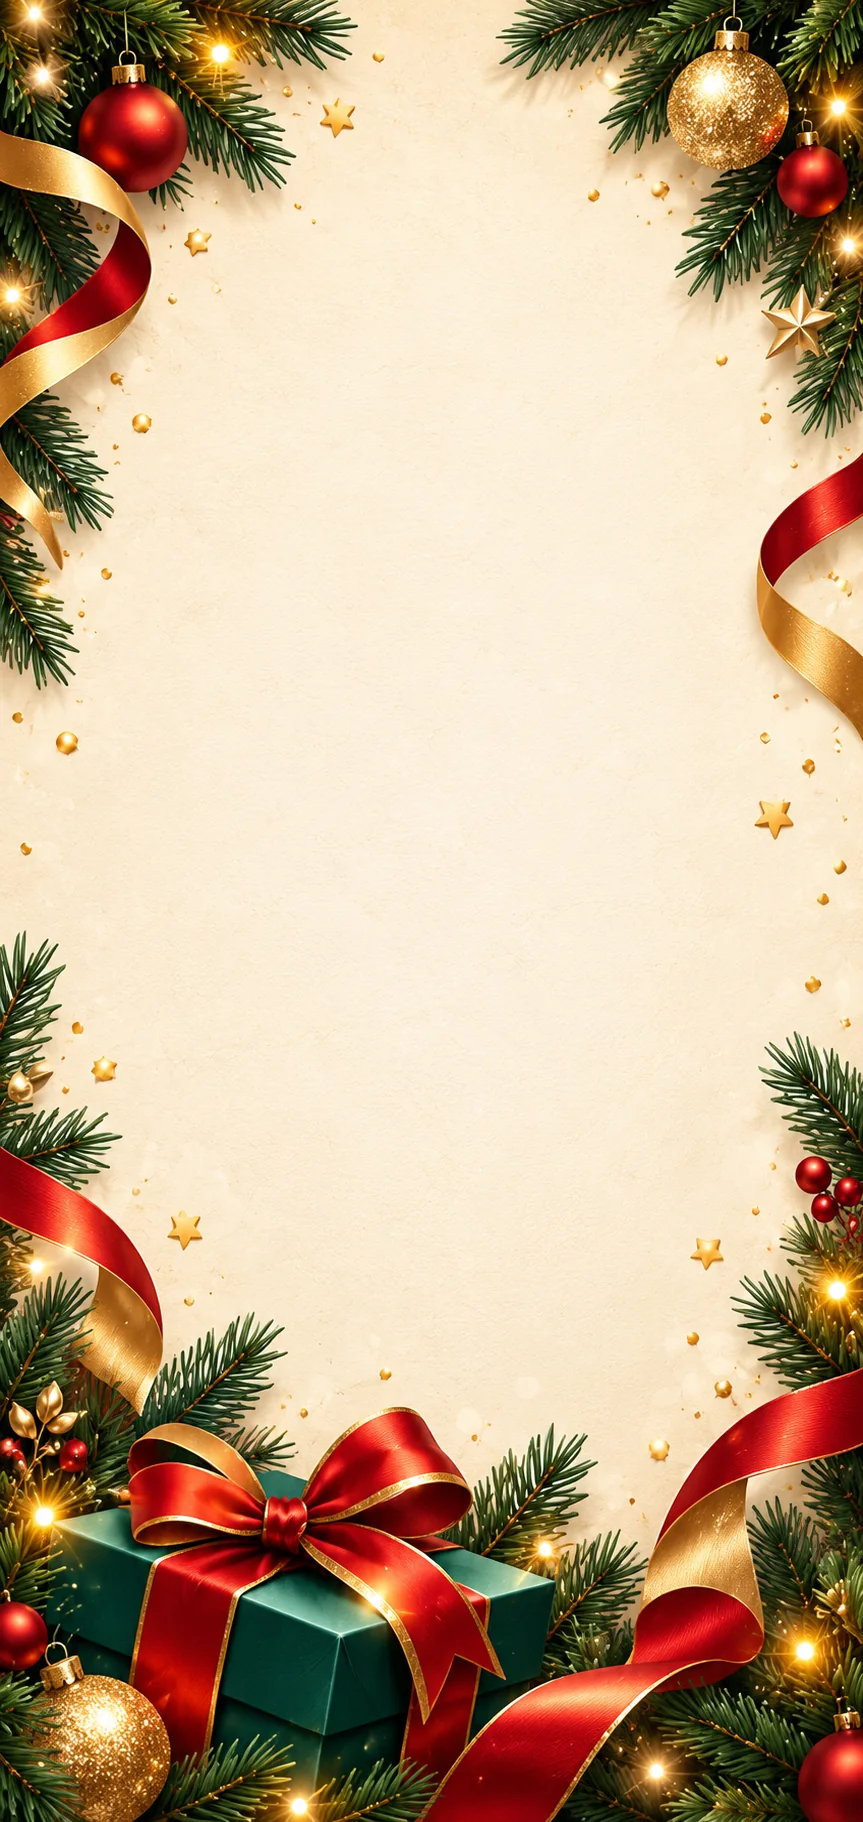
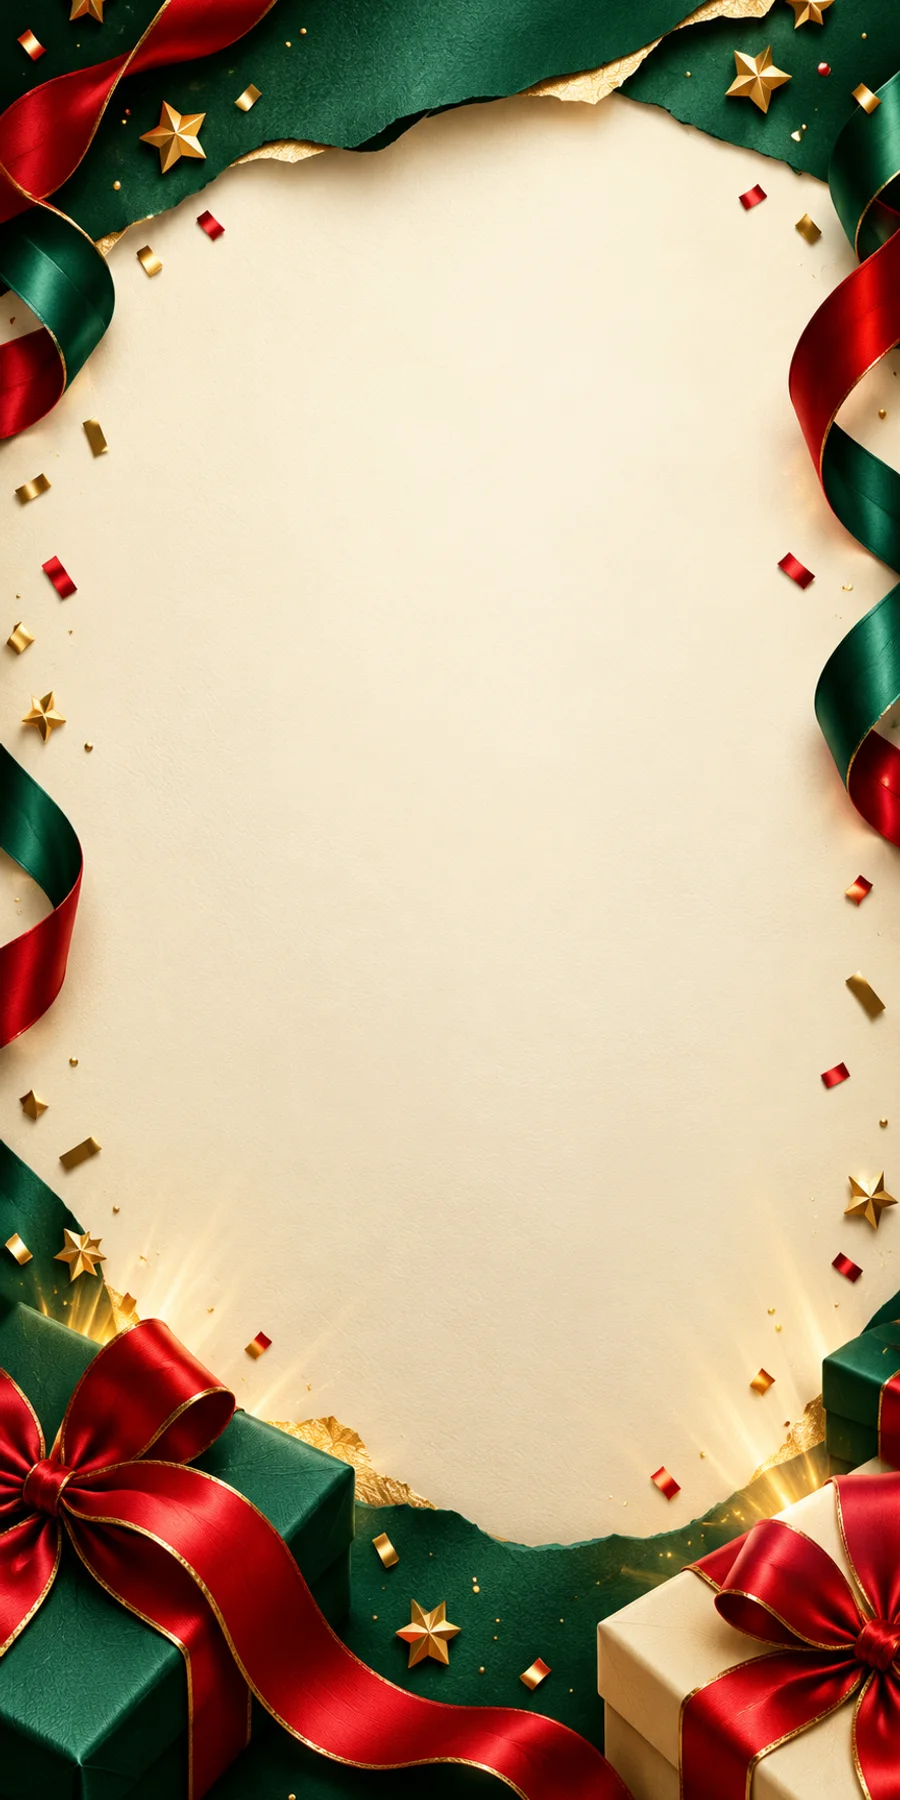
fix(scratch): match neutral festive design references

diff --git a/apps/web-app/e2e/christmas-scratch.spec.ts b/apps/web-app/e2e/christmas-scratch.spec.ts
@@ -1,5 +1,11 @@
 import { expect, test } from "@playwright/test";
 import { CHRISTMAS_SCRATCH_TEMPLATES, christmasScratchTemplate } from "../src/lib/christmas-scratch-templates";
+const NON_SEASONAL_TEMPLATES = new Set([
+  "scratch-christmas-evergreen",
+  "scratch-christmas-champagne",
+  "scratch-christmas-retro",
+  "scratch-christmas-noir-or",
+]);
 import { assertNoPageOverflow, captureVisualAt1280, rejectAnalyticsForVisualTests } from "./helpers/visual-1280";
 import { selectWizardStep } from "./helpers/wizard-step";
 test.use({ hasTouch: true });
@@ -68,14 +74,14 @@ for (const item of CHRISTMAS_SCRATCH_TEMPLATES) {
     await page.mouse.up();
     await expect(page.getByTestId("scratch-starts")).toHaveText("1");
     await expect(page.getByTestId("scratch-reveals")).toHaveText("1");
-    await expect(page.getByText("UN CADEAU DE NOËL").last()).toBeVisible();
+    await expect(page.getByText("UNE SURPRISE").last()).toBeVisible();
   });
 }
 test("fonds manuels, titre et logo image restent personnalisables", async ({ page }) => {
   await page.goto("/dev/christmas-scratch");
   await expect(page.locator('[data-fixture-ready="true"]')).toHaveCount(1);
-  await page.getByLabel("Titre de test").fill("Votre surprise\nde Noël");
-  await expect(page.getByRole("heading")).toHaveText("Votre surprise de Noël");
+  await page.getByLabel("Titre de test").fill("Votre surprise\nà découvrir");
+  await expect(page.getByRole("heading")).toHaveText("Votre surprise à découvrir");
   await page.getByLabel("Logo de test").selectOption("image");
   const logo = page.getByRole("img", { name: "Logo", exact: true });
   await expect.poll(() => logo.evaluate((image: HTMLImageElement) => image.naturalWidth)).toBeGreaterThan(0);
@@ -110,7 +116,7 @@ test("grattage tactile réel et aperçu non interactif", async ({ page }) => {
   await expect(page.getByTestId("scratch-foil-first-paint")).toHaveCount(1);
 });
 
-test("@visual-1280 tickets Noël dans l'éditeur classique, tous secteurs", async ({ page }, info) => {
+test("@visual-1280 tickets festifs dans l'éditeur classique, tous secteurs", async ({ page }, info) => {
   await page.setViewportSize({ width: 1280, height: 720 });
   await page.goto("/dev/template-rendering-proof?mode=editor-prize-budget&template=scratch-nude-classic&business=retail");
   for (const item of CHRISTMAS_SCRATCH_TEMPLATES) {
@@ -118,11 +124,12 @@ test("@visual-1280 tickets Noël dans l'éditeur classique, tous secteurs", asyn
     const card = page.getByRole("button", { name: new RegExp(theme.name) });
     await card.scrollIntoViewIfNeeded(); await card.click();
     await expect(card).toHaveAttribute("aria-pressed", "true");
+    if (NON_SEASONAL_TEMPLATES.has(theme.id)) await expect(card).not.toContainText(/noël/i);
     await expect(page.locator(`canvas[data-foil-texture="${theme.id}"]`)).toHaveAttribute("data-foil-loaded", "true");
   }
-  await captureVisualAt1280(page, info, "noel-tickets-editeur-classique");
+  await captureVisualAt1280(page, info, "tickets-festifs-editeur-classique");
 });
-test("@visual-1280 tickets Noël dans le wizard et aperçu, 1280×720 / 1280×600", async ({ page }, info) => {
+test("@visual-1280 tickets festifs dans le wizard et aperçu, 1280×720 / 1280×600", async ({ page }, info) => {
   const imageWarnings: string[] = [];
   page.on("console", message => {
     if (/beauty-foil-|wheel-templates\/christmas-/.test(message.text()) && /invalid.*position|height value of 0/i.test(message.text())) imageWarnings.push(message.text());
@@ -136,6 +143,7 @@ test("@visual-1280 tickets Noël dans le wizard et aperçu, 1280×720 / 1280×60
       const card = page.getByRole("button", { name: new RegExp(theme.name) });
       await card.scrollIntoViewIfNeeded(); await card.click();
       await expect(card).toHaveAttribute("aria-pressed", "true");
+      if (NON_SEASONAL_TEMPLATES.has(theme.id)) await expect(card).not.toContainText(/noël/i);
       await captureVisualAt1280(page, info, theme.id, height);
       await page.getByRole("button", { name: "Voir l’aperçu", exact: true }).click();
       const frame = page.getByRole("dialog", { name: "Aperçu du jeu" }).frameLocator("iframe");

diff --git a/apps/web-app/src/lib/christmas-scratch-templates.ts b/apps/web-app/src/lib/christmas-scratch-templates.ts
@@ -29,14 +29,16 @@ type IllustratedTemplate = {
   scratch: ScratchFinish;
 };
 
+// Keep the historical IDs for campaigns already using the original PR #726.
+// The four illustrated styles below are neutral festive designs, not seasonal templates.
 export const CHRISTMAS_SCRATCH_TEMPLATES = [
   { id: "scratch-christmas-rose", wheelId: "christmas-rose", scratch: { base: "#c6a0aa", highlight: "#f4e3e5", edge: "#fff5ef", texture: "/images/scratch-templates/beauty-foil-lilas.webp", textureOpacity: .28 } },
   { id: "scratch-christmas-natural", wheelId: "christmas-natural", scratch: { base: "#b69a63", highlight: "#eee1c4", edge: "#fff9eb", texture: "/images/scratch-templates/beauty-foil-botanical.webp", textureOpacity: .32 } },
   { id: "scratch-christmas-traditional", wheelId: "christmas-traditional", scratch: { base: "#a98444", highlight: "#f0dca0", edge: "#fff0c4", texture: "/images/scratch-templates/beauty-foil-noir-or.webp", textureOpacity: .28 } },
   {
     id: "scratch-christmas-evergreen",
-    name: "Noël sapin & cadeaux",
-    description: "Sapin profond, rubans rouges et cadeaux lumineux.",
+    name: "Vert bouteille & rubans",
+    description: "Papier vert profond, rubans rouges et paquets cadeaux.",
     background: "/images/scratch-templates/christmas-evergreen-background.webp",
     backgroundColor: "#f5eddd",
     text: "#173c34",
@@ -47,8 +49,8 @@ export const CHRISTMAS_SCRATCH_TEMPLATES = [
   },
   {
     id: "scratch-christmas-champagne",
-    name: "Noël champagne",
-    description: "Ivoire lumineux, rubans et détails champagne.",
+    name: "Ivoire & champagne",
+    description: "Rubans dorés satinés et paquet cadeau sur fond ivoire.",
     background: "/images/scratch-templates/christmas-champagne-background.webp",
     backgroundColor: "#fbf4e8",
     text: "#263d37",
@@ -59,8 +61,8 @@ export const CHRISTMAS_SCRATCH_TEMPLATES = [
   },
   {
     id: "scratch-christmas-retro",
-    name: "Noël rétro",
-    description: "Rayons colorés, rouge festif et esprit affiche vintage.",
+    name: "Rayons rétro",
+    description: "Rayons corail, turquoise et safran façon affiche vintage.",
     background: "/images/scratch-templates/christmas-retro-background.webp",
     backgroundColor: "#f5e9ce",
     text: "#ad2925",
@@ -71,8 +73,8 @@ export const CHRISTMAS_SCRATCH_TEMPLATES = [
   },
   {
     id: "scratch-christmas-noir-or",
-    name: "Noël noir & or",
-    description: "Fond noir profond, rubans de satin et éclats dorés.",
+    name: "Satin noir & or",
+    description: "Rubans métallisés et éclats dorés sur fond noir profond.",
     background: "/images/scratch-templates/christmas-noir-or-background.webp",
     backgroundColor: "#100f0d",
     text: "#f8f0df",

diff --git a/apps/web-app/e2e/fixtures/christmas-scratch.tsx b/apps/web-app/e2e/fixtures/christmas-scratch.tsx
@@ -24,7 +24,7 @@ export function ChristmasScratchFixture({ templateId, mode, initialBackground = 
       background: { mode: background === "image" ? "image" as const : "color" as const, color: background === "color" ? "#e0f2fe" : theme.backgroundColor, imageUrl: background === "image" ? "/backgrounds/aurora-retail.svg" : undefined },
       heading: { ...halloweenFixture.presentation.heading, fontFamily: theme.font, fontSizePx: DEFAULT_SCRATCH_HEADING_FONT_SIZE_PX, textColor: theme.text },
       logo: { ...halloweenFixture.presentation.logo, textColor: theme.logo, sizePercent: 75, marginBottomPx: 36 },
-      layout: { ...halloweenFixture.presentation.layout, templateId: selected, scratchSubtitle: "De belles surprises vous attendent pour Noël", blockSpacingPx: 32 },
+      layout: { ...halloweenFixture.presentation.layout, templateId: selected, scratchSubtitle: "Une surprise vous attend !", blockSpacingPx: 32 },
     } };
   const merchant = { id: "fixture-merchant", companyName: "Maison Douceur", logoText: "Maison Douceur" } as Merchant;
   const preview = buildCampaignLivePreviewModel(form, merchant);
@@ -33,7 +33,7 @@ export function ChristmasScratchFixture({ templateId, mode, initialBackground = 
     return <main data-fixture-ready={ready}><CampaignExperience campaignId={campaign.id} initialCampaign={campaign} isPreview={mode === "preview"} previewToken={mode === "preview" ? "fixture-only" : undefined} /></main>;
   }
   if (mode === "interaction") return <main data-fixture-ready={ready} className="mx-auto max-w-[390px] px-4" style={{ backgroundColor: theme.backgroundColor, backgroundImage: `url("${theme.background}")`, backgroundSize: "cover" }}>
-    <ImmersiveScratchTicket template={theme.id} accent={form.accent} resultLabel="UN CADEAU DE NOËL" enabled
+    <ImmersiveScratchTicket template={theme.id} accent={form.accent} resultLabel="UNE SURPRISE" enabled
       onReveal={() => setReveals(count => count + 1)} onScratchStart={() => setStarts(count => count + 1)}
       headline={title} secondaryText={form.presentation.layout.scratchSubtitle} logoMode={logo} logoText="Maison Douceur"
       headingFontSizePx={46} headingFontClass="font-bodoni" headingTextColor={theme.text} logoTextColor={theme.logo} />

diff --git a/apps/web-app/src/lib/background-library.ts b/apps/web-app/src/lib/background-library.ts
@@ -1,7 +1,47 @@
-import { BackgroundLibraryAsset } from "@/lib/types";
+import type { BackgroundLibraryAsset } from "@/lib/types";
 import { CHRISTMAS_WHEEL_THEMES, christmasWheelArtwork } from "@/lib/christmas-wheel-themes";
 
 export const builtInBackgroundAssets: BackgroundLibraryAsset[] = [
+  {
+    id: "builtin-scratch-gift-wrap",
+    label: "Vert bouteille & rubans",
+    category: "Fête",
+    imageUrl: "/images/scratch-templates/christmas-evergreen-background.webp",
+    thumbnailUrl: "/images/scratch-templates/christmas-evergreen-background.webp",
+    source: "built-in",
+    width: 900,
+    height: 1800,
+  },
+  {
+    id: "builtin-scratch-champagne-ribbons",
+    label: "Ivoire & champagne",
+    category: "Fête",
+    imageUrl: "/images/scratch-templates/christmas-champagne-background.webp",
+    thumbnailUrl: "/images/scratch-templates/christmas-champagne-background.webp",
+    source: "built-in",
+    width: 900,
+    height: 1800,
+  },
+  {
+    id: "builtin-scratch-retro-rays",
+    label: "Rayons rétro",
+    category: "Fête",
+    imageUrl: "/images/scratch-templates/christmas-retro-background.webp",
+    thumbnailUrl: "/images/scratch-templates/christmas-retro-background.webp",
+    source: "built-in",
+    width: 900,
+    height: 1800,
+  },
+  {
+    id: "builtin-scratch-black-gold-ribbons",
+    label: "Satin noir & or",
+    category: "Fête",
+    imageUrl: "/images/scratch-templates/christmas-noir-or-background.webp",
+    thumbnailUrl: "/images/scratch-templates/christmas-noir-or-background.webp",
+    source: "built-in",
+    width: 900,
+    height: 1800,
+  },
   ...CHRISTMAS_WHEEL_THEMES.map(theme => ({
     id: `builtin-wheel-${theme.id}`,
     label: theme.name,

diff --git a/docs/releases/2026-10-31-festive-scratch-724.md b/docs/releases/2026-10-31-festive-scratch-724.md
@@ -1,0 +1,38 @@
+# Tickets festifs sans thème saisonnier — #724
+
+## Correction
+
+Les quatre modèles issus de cette issue sont des univers de fête et de cadeaux,
+pas des modèles de Noël. Les noms visibles sont désormais **Vert bouteille &
+rubans**, **Ivoire & champagne**, **Rayons rétro** et **Satin noir & or**. Les
+identifiants internes historiques `scratch-christmas-*` sont conservés pour ne
+pas invalider les campagnes existantes.
+
+Les décors ont été recréés à partir des références :
+
+- vert bouteille et champ ivoire, rubans rouges/verts et paquets dans les coins ;
+- fond ivoire avec larges rubans dorés et paquet clair en bas à droite ;
+- rayons rétro turquoise, corail, safran et crème ;
+- fond noir mat encadré de rubans dorés satinés et de paillettes fines.
+
+Les éléments propres à Noël (branches de sapin, boules, feuillage et cadeaux
+de saison) ont été retirés. Les quatre décors sont également accessibles dans
+la bibliothèque sous **Fête**. Les noms, le logo et le masque interactif restent
+des éléments rendus par l’application, et le choix d’un fond utilisateur reste
+prioritaire.
+
+## Impacts et vérifications
+
+Aucune donnée de campagne, règle de grattage, chance, stock ou résultat n'est
+modifié. Les rendus et les contrôles des fonds manuels restent inchangés.
+
+Les tests de configuration, de compatibilité des identifiants et de remplacement
+du fond passent. Playwright passe 25/25 scénarios, dont les quatre styles sur
+écrans mobiles 320/390 px et les deux contrôles visuels éditeur/aperçu à
+1280×720 et 1280×600. Les quatre aperçus ont été inspectés visuellement. Le lint
+passe sans erreur (quatre avertissements préexistants hors périmètre), le build
+Next.js et `verify:source` passent.
+
+Les fichiers WebP gardent les chemins historiques pour éviter les références
+cassées. Les noms visibles dans le produit et dans la bibliothèque ne mentionnent
+plus Noël pour ces quatre modèles.

diff --git a/docs/PRODUCT.md b/docs/PRODUCT.md
@@ -426,16 +426,17 @@ la page de jeu conserve le moteur de grattage et les règles de tirage existants
 Les anciens modèles et les modèles par défaut de chaque activité restent inchangés.
 [Périmètre et recette](releases/2026-10-28-christmas-scratch-676.md).
 
-Issue #724 ajoute quatre styles de ticket festifs à tous les secteurs : Noël sapin
-& cadeaux, Noël champagne, Noël rétro et Noël noir & or. Leurs fonds WebP sont des
-décors seuls ; l'identité, le titre et le sous-titre restent configurés dans le jeu.
-Les styles sapin, champagne et noir & or ont une zone de grattage dorée au bord
-irrégulier de pinceau ; le modèle rétro a un ticket rouge bordé d'or et un
-revêtement argenté.
+Issue #724 ajoute quatre styles de ticket festifs non saisonniers à tous les
+secteurs : Vert bouteille & rubans, Ivoire & champagne, Rayons rétro, et Satin
+noir & or. Leurs fonds WebP sont des décors seuls ; l'identité, le titre et le
+sous-titre restent configurés dans le jeu. Trois styles ont une zone de grattage
+dorée au bord irrégulier de pinceau ; le modèle rétro a un ticket rouge bordé
+d'or et un revêtement argenté. Leurs anciens identifiants internes sont conservés
+afin de préserver les campagnes qui les utilisent déjà.
 La zone est toujours le canvas interactif existant et révèle le résultat du tirage
 exact. Un fond importé ou choisi dans la bibliothèque reste prioritaire sur le fond
 natif. Aucune campagne existante, chance, stock, participation ou règle de jeu n'est
-modifiée. [Assets et contrôles](releases/2026-10-30-christmas-scratch-724.md).
+modifiée. [Assets et contrôles](releases/2026-10-31-festive-scratch-724.md).
 
 ## Affiliation par compte — #677
 
